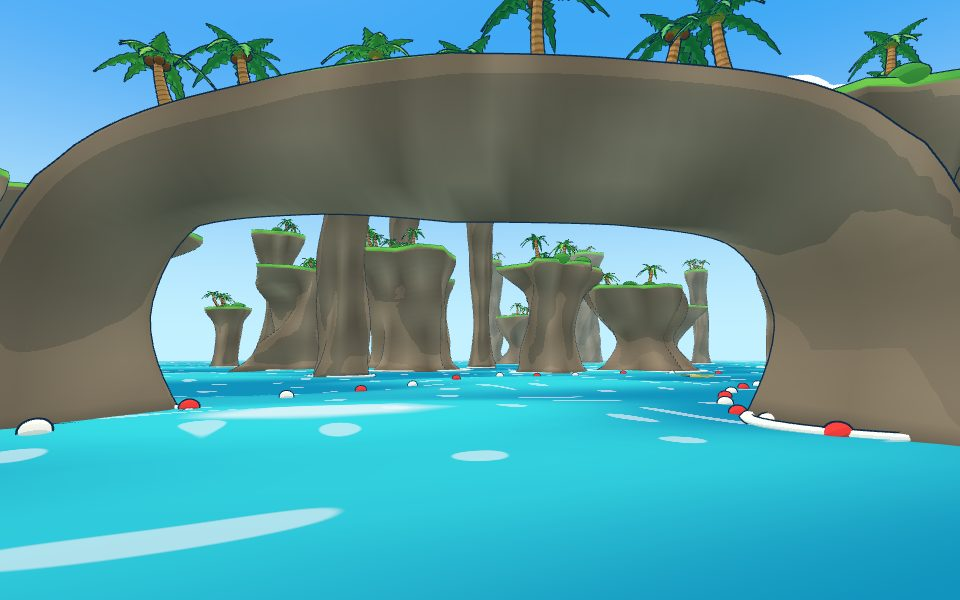
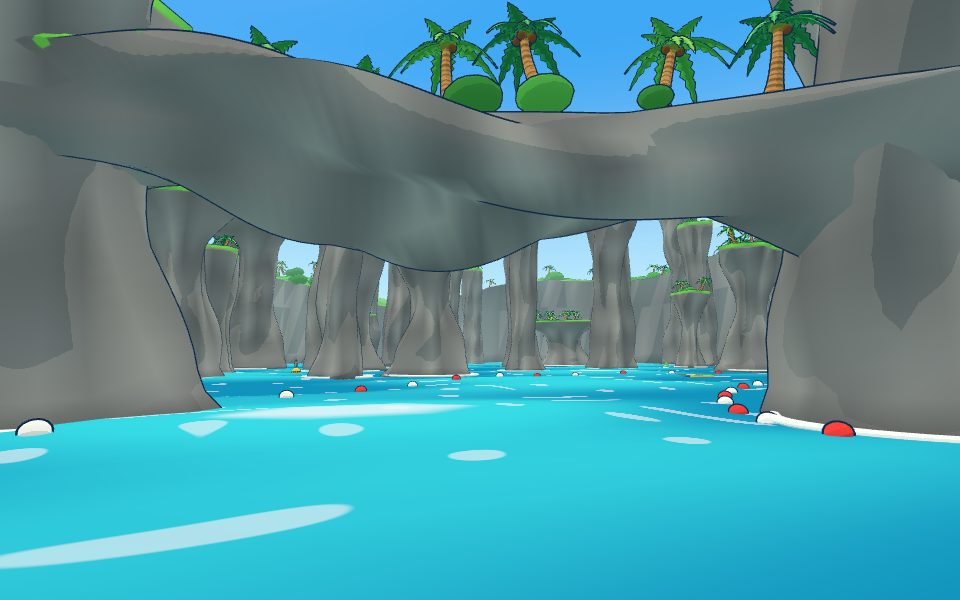
Make the rock gray stone, turn arches into slabs between towers, and add a main island cliff along the north side

diff --git a/src/world.js b/src/world.js
@@ -665,10 +665,10 @@ function addIsland(batch, x, z, r, rand, { clearCenter = 0 } = {}) {
   return sand;
 }
 
-const PILLAR_DARK = new THREE.Color(0x6f6457);
-const PILLAR_STREAK = new THREE.Color(0x857868);
-const PILLAR_LIGHT = new THREE.Color(0xa49582);
-const PILLAR_WET = new THREE.Color(0x4f4a43);
+const PILLAR_DARK = new THREE.Color(0x6b6e70);
+const PILLAR_STREAK = new THREE.Color(0x85888a);
+const PILLAR_LIGHT = new THREE.Color(0xa7a9a7);
+const PILLAR_WET = new THREE.Color(0x4a4e52);
 
 function paintPillar(g, top) {
   g.computeVertexNormals();
@@ -758,27 +758,26 @@ function addPillar(batch, x, z, rand, { radius, height, plants = 1 }) {
 }
 
 function archGeometry(span, height, thick, rand) {
+  const tilt = (rand() - 0.5) * 8;
+  const sag = 2 + rand() * 4;
   const pts = [
-    new THREE.Vector3(-span, -3, 0),
-    new THREE.Vector3(-span * 1.02, height * 0.45, 0),
-    new THREE.Vector3(-span * 0.85, height * 0.85, 0),
-    new THREE.Vector3(-span * 0.4, height, 0),
-    new THREE.Vector3(span * 0.4, height * (0.97 + rand() * 0.06), 0),
-    new THREE.Vector3(span * 0.85, height * 0.85, 0),
-    new THREE.Vector3(span * 1.02, height * 0.45, 0),
-    new THREE.Vector3(span, -3, 0),
+    new THREE.Vector3(-span * 1.08, height - tilt + 2, (rand() - 0.5) * 4),
+    new THREE.Vector3(-span * 0.55, height - tilt * 0.5 - sag * 0.5 + (rand() - 0.5) * 3, (rand() - 0.5) * 5),
+    new THREE.Vector3(0, height - sag + (rand() - 0.5) * 2, (rand() - 0.5) * 6),
+    new THREE.Vector3(span * 0.55, height + tilt * 0.5 - sag * 0.5 + (rand() - 0.5) * 3, (rand() - 0.5) * 5),
+    new THREE.Vector3(span * 1.08, height + tilt + 2, (rand() - 0.5) * 4),
   ];
   const curve = new THREE.CatmullRomCurve3(pts);
   const segments = 60;
   const radial = 12;
   const tube = new THREE.TubeGeometry(curve, segments, 1, radial, false);
   const pos = tube.attributes.position;
-  const lumps = Array.from({ length: 3 }, () => ({ f: 3 + rand() * 6, k: 2 + Math.floor(rand() * 3), p: rand() * 6, a: 0.08 + rand() * 0.1 }));
+  const lumps = Array.from({ length: 5 }, () => ({ f: 3 + rand() * 9, k: 1 + Math.floor(rand() * 4), p: rand() * 6, a: 0.08 + rand() * 0.14 }));
   for (let i = 0; i <= segments; i++) {
     const t = i / segments;
     const c = curve.getPointAt(t);
     const along = Math.abs(t - 0.5) * 2;
-    const r = thick * (1.2 - 0.4 * along + 0.7 * along ** 8);
+    const r = thick * (0.85 + 0.5 * along ** 2 + 0.25 * Math.sin(t * 9 + lumps[0].p));
     for (let j = 0; j <= radial; j++) {
       const k = i * (radial + 1) + j;
       const a = (j / radial) * Math.PI * 2;
@@ -787,8 +786,8 @@ function archGeometry(span, height, thick, rand) {
       const dx = pos.getX(k) - c.x;
       const dy = pos.getY(k) - c.y;
       const dz = pos.getZ(k) - c.z;
-      const flat = dy > 0 && along < 0.6 ? 0.7 : 1;
-      pos.setXYZ(k, c.x + dx * r * bump, c.y + dy * r * bump * flat, c.z + dz * r * bump * 1.35);
+      const flat = dy > 0 ? 0.55 : 1.15;
+      pos.setXYZ(k, c.x + dx * r * bump, c.y + dy * r * bump * flat, c.z + dz * r * bump * 1.6);
     }
   }
   const g = mergeVertices(tube.deleteAttribute('normal').deleteAttribute('uv'));
@@ -798,7 +797,7 @@ function archGeometry(span, height, thick, rand) {
 function addArch(batch, track, fraction, rand) {
   const idx = track.wrap(Math.round(fraction * track.N));
   const half = track.halfWidth;
-  const span = half + 9;
+  const span = half + 11;
   const height = 26 + rand() * 6;
   const thick = 5 + rand() * 1.5;
   const p = track.point(idx, 0);
@@ -812,12 +811,74 @@ function addArch(batch, track, fraction, rand) {
   }
   const blobs = [];
   for (const side of [-1, 1]) {
-    const lx = p.x + nx * side * span;
-    const lz = p.z + nz * side * span;
-    batch.add('foam', RING, mat(lx, 0.2, lz, thick * 1.6, 6, thick * 1.6));
-    blobs.push({ x: lx, z: lz, rx: thick * 1.4, rz: thick * 1.4, rot: 0 });
+    const lx = p.x + nx * side * (span + 2);
+    const lz = p.z + nz * side * (span + 2);
+    const anchor = addPillar(batch, lx, lz, rand, { radius: 8 + rand() * 4, height: height + 8 + rand() * 22 });
+    blobs.push(anchor.blob);
   }
   return blobs;
+}
+
+const mainlandEdge = (x) => 485 + 45 * Math.sin(x * 0.005 + 0.7) + 22 * Math.sin(x * 0.013 + 2) + 8 * Math.sin(x * 0.05);
+const mainlandHeight = (x) => 74 + 16 * Math.sin(x * 0.009) + 9 * Math.sin(x * 0.031 + 1);
+const MAINLAND_ROWS = [-14, -5, -1.5, 0.4, 1.5, 3, 5, 9, 16, 30, 60, 120, 240, 520];
+
+function addMainland(batch, rand) {
+  const step = 8;
+  const cols = Math.round(2600 / step);
+  const positions = [];
+  for (let c = 0; c <= cols; c++) {
+    const x = -1300 + c * step;
+    const edge = mainlandEdge(x);
+    const top = mainlandHeight(x);
+    for (const d of MAINLAND_ROWS) {
+      let y;
+      let z = edge + d;
+      let px = x;
+      if (d < 0) y = -4;
+      else if (d < 6) {
+        const u = THREE.MathUtils.smoothstep(d, 0.4, 5);
+        y = -4 + (top + 4) * Math.min(1, u * 1.15);
+        z += Math.sin(y * 0.22 + x * 0.09) * 2.6 + Math.sin(y * 0.07 + x * 0.21) * 1.8;
+        px += Math.sin(y * 0.15 + x * 0.3) * 1.2;
+      } else {
+        y = top + Math.min(1, d / 40) * (6 * Math.sin(x * 0.02 + d * 0.03) + 5 * Math.sin(d * 0.05 - x * 0.011));
+      }
+      positions.push(px, y, z);
+    }
+  }
+  const rows = MAINLAND_ROWS.length;
+  const indices = [];
+  for (let c = 0; c < cols; c++) {
+    for (let r = 0; r < rows - 1; r++) {
+      const a = c * rows + r;
+      const b = (c + 1) * rows + r;
+      indices.push(a, a + 1, b, a + 1, b + 1, b);
+    }
+  }
+  const g = new THREE.BufferGeometry();
+  g.setAttribute('position', new THREE.Float32BufferAttribute(positions, 3));
+  g.setIndex(indices);
+  const land = paintPillar(g.toNonIndexed(), 1e9);
+  const nor = land.attributes.normal;
+  const green = land.attributes.aGreen;
+  for (let i = 0; i < green.count; i++) green.setX(i, THREE.MathUtils.smoothstep(nor.getY(i), 0.55, 0.75));
+  batch.add('rockland', land);
+  for (let x = -1300; x <= 1300; x += 9 + rand() * 9) {
+    const edge = mainlandEdge(x);
+    const top = mainlandHeight(x);
+    for (let k = 0; k < 3; k++) {
+      const d = 8 + rand() * 70;
+      const px = x + (rand() - 0.5) * 8;
+      const pz = edge + d;
+      const y = top + Math.min(1, d / 40) * (6 * Math.sin(px * 0.02 + d * 0.03) + 5 * Math.sin(d * 0.05 - px * 0.011));
+      if (rand() < 0.35) addPalm(batch, px, y - 0.4, pz, rand, { height: 8 + rand() * 7, lean: rand() * 0.4, dir: rand() * Math.PI * 2 });
+      else {
+        const sz = 3 + rand() * 4;
+        batch.add(rand() < 0.5 ? 'moss' : 'mossDark', LOW_SPHERE, mat(px, y + sz * 0.3, pz, sz * 1.3, sz * 0.8, sz));
+      }
+    }
+  }
 }
 
 function addLighthouse(batch, x, z, baseY) {
@@ -958,12 +1019,14 @@ export function createWorld(scene, track) {
       const radius = mesa ? 13 + rand() * 12 : 4 + rand() * 9;
       if (clearance < radius + 6) continue;
       if (!fits(x, z, radius)) continue;
+      if (z > mainlandEdge(x) - radius - 14) continue;
       const height = mesa ? 26 + rand() * 30 : 30 + rand() * 65 + (clearance > 120 ? rand() * 35 : 0);
       const pillar = addPillar(batch, x, z, rand, { radius, height });
       pillars.push({ x, z, r: radius });
       shores.push(pillar.blob);
     }
   }
+  addMainland(batch, rand);
   const islands = pillars.map((p) => ({ x: p.x, z: p.z, r: p.r }));
   const stacks = [];
 
@@ -1017,6 +1080,7 @@ export function createWorld(scene, track) {
     const clearance = track.project(x, z).distance - half;
     if (clearance < 8 || clearance > 120) continue;
     if (islands.some((o) => Math.hypot(o.x - x, o.z - z) < o.r + 8)) continue;
+    if (z > mainlandEdge(x) - 12) continue;
     if (markers.some((m) => Math.hypot(m.position.x - x, m.position.z - z) < 30)) continue;
     const marker = createMarkerBuoy(markers.length % 3);
     marker.position.set(x, 0, z);
